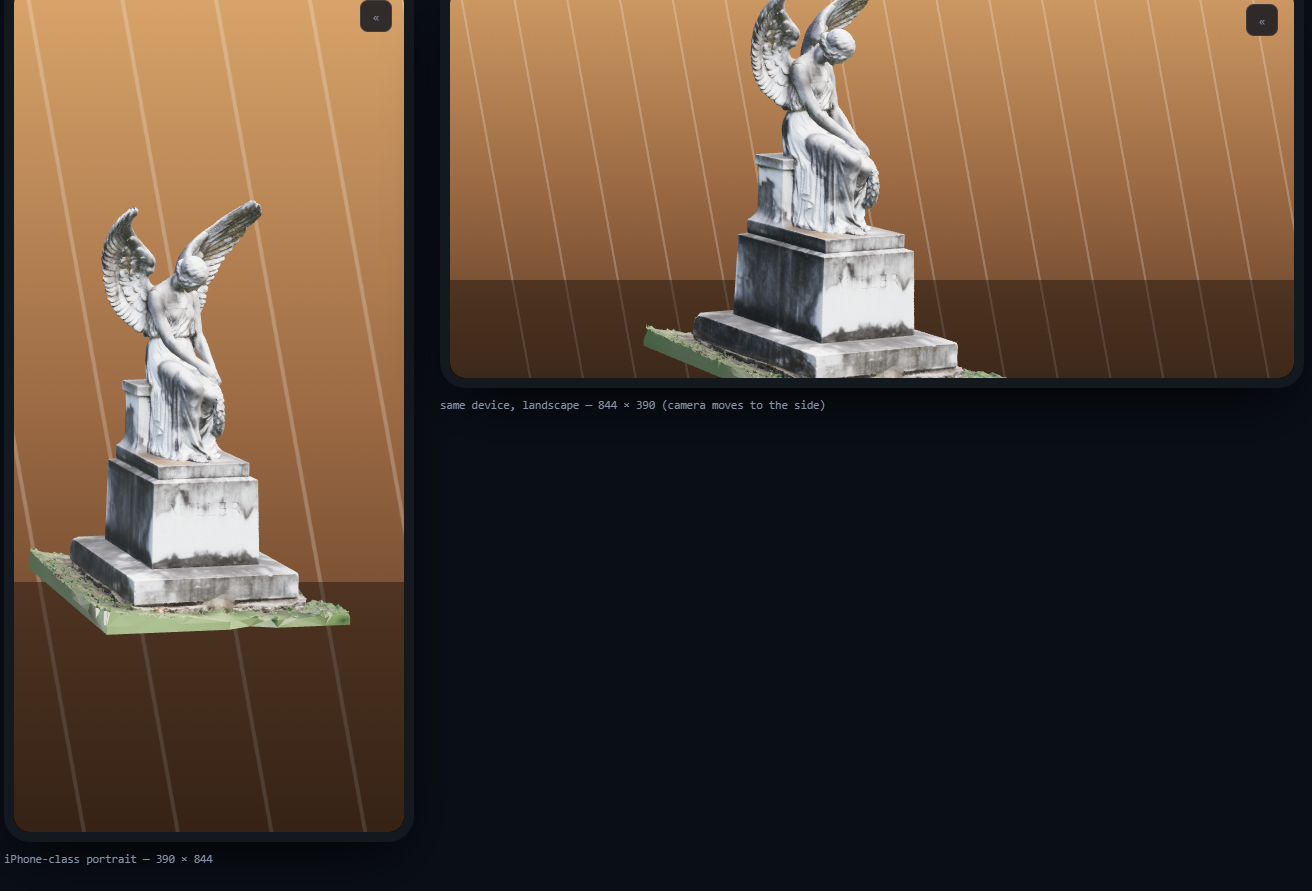
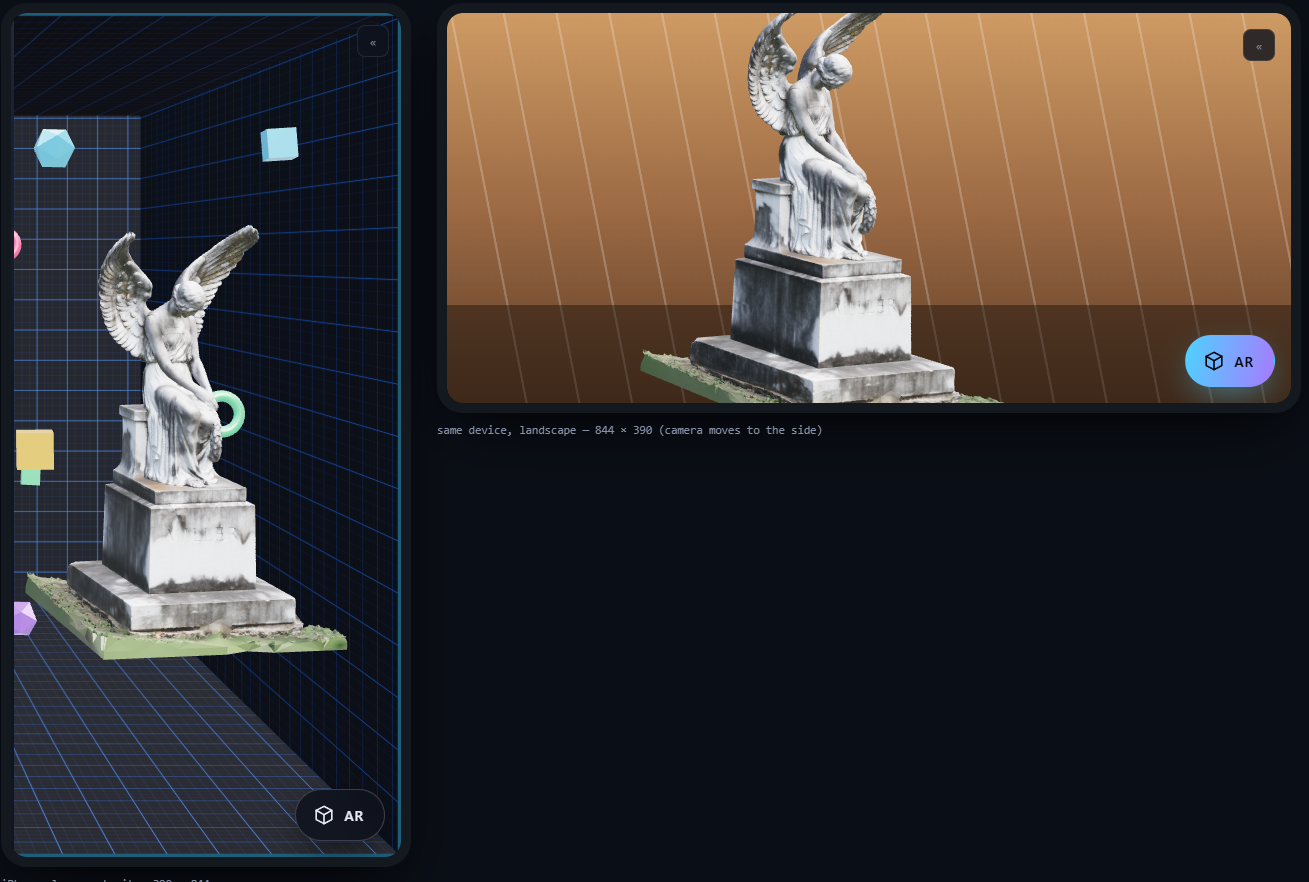
Surface the AR toggle on the stage, not just in the settings panel
AR passthrough is the headline mobile feature, so requiring three taps into a
settings panel to reach it was wrong — especially since it is the one control
you want mid-gesture while holding a phone.

Adds a floating AR button on the stage itself, shown only on phones and
tablets. Bottom-right: the reachable corner for a thumb, and the only one not
already occupied by the HUD (top-left), the camera preview (bottom-left) or the
panel button (top-right). 52px hit target, safe-area padding so it clears a home
bar, and a lit accent state when active.

The panel checkbox stays, since it carries the AR status line. Both controls now
route through a single UI._requestAr(), so they cannot drift apart or race: both
are locked while the camera opens, repeat taps during that window are dropped
rather than queued, and afterwards both resync from config — which reflects what
actually happened rather than what was asked for.

The toast bottom offset is raised on narrow screens; it previously would have
overlapped the new button.

Verified in phone-sized frames, portrait and landscape: placement inside the
viewport, touch target above the 44px minimum, tap-to-enable, tap-to-disable,
double-tap suppression, and bidirectional sync with the panel checkbox. Desktop
unaffected — button and panel section both hidden. 65 assertions still pass.

diff --git a/css/style.css b/css/style.css
@@ -531,6 +531,78 @@ input[type=range]::-moz-range-thumb {
   transition: width .18s ease;
 }
 
+/* ---------------- AR quick toggle ---------------- */
+
+/* Bottom-right: the reachable corner for a thumb, and the only one not already
+   taken (HUD top-left, preview bottom-left, panel button top-right).
+   z-index sits above the HUD but below the panel, so the full-screen mobile
+   panel covers it when open. */
+.ar-fab {
+  position: fixed;
+  right: calc(16px + env(safe-area-inset-right));
+  bottom: calc(16px + env(safe-area-inset-bottom));
+  z-index: 25;
+
+  display: flex;
+  align-items: center;
+  gap: 9px;
+  padding: 13px 20px 13px 17px;
+  min-height: 52px;
+
+  border: 1px solid var(--stroke-hi);
+  border-radius: 999px;
+  background: rgba(14, 18, 28, 0.86);
+  backdrop-filter: blur(14px);
+  color: var(--text);
+  font-size: 14px;
+  font-weight: 600;
+  letter-spacing: .06em;
+  cursor: pointer;
+  user-select: none;
+  -webkit-tap-highlight-color: transparent;
+  box-shadow: 0 12px 32px -10px rgba(0, 0, 0, .8);
+  transition: background .2s, border-color .2s, color .2s, transform .12s, box-shadow .2s;
+}
+
+.ar-fab:active { transform: scale(.96); }
+
+.ar-fab-icon {
+  display: grid;
+  place-items: center;
+  width: 22px;
+  height: 22px;
+}
+
+.ar-fab-icon svg { width: 100%; height: 100%; }
+
+/* Active: unmistakably "on", since the whole scene changing is the only other
+   signal and a user who just enabled it needs to know the tap registered. */
+.ar-fab.active {
+  background: linear-gradient(100deg, var(--accent), var(--accent-2));
+  border-color: transparent;
+  color: #05070c;
+  box-shadow: 0 12px 34px -8px rgba(79, 209, 255, .55);
+}
+
+/* Busy: opening a camera takes a moment and can fail, so the control is locked
+   rather than letting a second tap race the first. */
+.ar-fab.busy {
+  pointer-events: none;
+  opacity: .65;
+}
+
+.ar-fab.busy .ar-fab-icon { animation: ar-pulse 1s ease-in-out infinite; }
+
+@keyframes ar-pulse {
+  0%, 100% { opacity: .35; transform: scale(.9); }
+  50%      { opacity: 1;   transform: scale(1.05); }
+}
+
+@media (hover: hover) {
+  .ar-fab:hover { border-color: var(--accent); }
+  .ar-fab.active:hover { filter: brightness(1.08); }
+}
+
 /* ---------------- toast ---------------- */
 
 .toast {
@@ -640,7 +712,13 @@ input[type=range]::-moz-range-thumb {
   .preview.collapsed { width: 104px; }
   .preview-bar { font-size: 9px; padding: 4px 4px 4px 7px; }
 
-  .toast { bottom: calc(20px + env(safe-area-inset-bottom)); max-width: 88vw; white-space: normal; text-align: center; }
+  /* Lifted above the AR button, which shares the bottom edge. */
+  .toast {
+    bottom: calc(84px + env(safe-area-inset-bottom));
+    max-width: 88vw;
+    white-space: normal;
+    text-align: center;
+  }
 
   .splash { padding: 0; }
   .splash-card {

diff --git a/js/ui.js b/js/ui.js
@@ -68,6 +68,8 @@ export class UI {
     this.reopen = $('panel-reopen');
     this.preview = $('preview');
     this.hud = $('hud');
+    this.arFab = $('ar-fab');
+    this._arBusy = false;
     this.toastEl = $('toast');
     this.toastTimer = 0;
 
@@ -92,9 +94,32 @@ export class UI {
     if (this.isCompact()) this.togglePanel(false);
   }
 
-  /** Show the AR passthrough control. Desktops have no rear camera. */
+  /**
+   * Toggle AR passthrough on behalf of either control.
+   *
+   * Opening a camera is slow and can fail, so both controls are locked for the
+   * duration and then resynced from config — which reflects what actually
+   * happened, not what was asked for.
+   */
+  async _requestAr(wanted) {
+    if (this._arBusy) return;
+    this._arBusy = true;
+    $('c-ar').disabled = true;
+    this.arFab.classList.add('busy');
+    try {
+      await this.h.onToggleAr(wanted);
+    } finally {
+      this._arBusy = false;
+      $('c-ar').disabled = false;
+      this.arFab.classList.remove('busy');
+      this.syncFromConfig(['arMode']);
+    }
+  }
+
+  /** Show the AR passthrough controls. Desktops have no rear camera. */
   enableArControl(show) {
     $('group-ar').classList.toggle('hidden', !show);
+    this.arFab.classList.toggle('hidden', !show);
   }
 
   /** Persistent line under the AR toggle; pass null to clear. */
@@ -165,6 +190,8 @@ export class UI {
         el.disabled = ar;
         el.closest('.check').style.opacity = ar ? 0.4 : 1;
       }
+      this.arFab?.classList.toggle('active', ar);
+      this.arFab?.setAttribute('aria-pressed', String(ar));
     }
 
     // Both camera-offset sliders are meaningless while "auto" is on: the
@@ -200,18 +227,10 @@ export class UI {
       fileInput.value = '';
     };
 
-    const ar = $('c-ar');
-    ar.addEventListener('change', async () => {
-      const wanted = ar.checked;
-      ar.disabled = true;
-      try {
-        await this.h.onToggleAr(wanted);
-      } finally {
-        ar.disabled = false;
-        // Whatever happened, the checkbox must reflect reality, not intent.
-        this.syncFromConfig(['arMode']);
-      }
-    });
+    // Two controls, one path: the on-stage button and the panel checkbox both
+    // route through _requestAr so they can never race or drift out of step.
+    $('c-ar').addEventListener('change', (e) => this._requestAr(e.target.checked));
+    this.arFab.addEventListener('click', () => this._requestAr(!config.arMode));
 
     $('btn-default').onclick = () => this.h.onLoadDefault();
     $('btn-recenter').onclick = () => this.h.onRecenter();

diff --git a/index.html b/index.html
@@ -257,6 +257,22 @@
 
 <button id="panel-reopen" class="panel-reopen hidden" title="Show panel (H)">&laquo;</button>
 
+<!-- ============ AR QUICK TOGGLE (mobile) ============ -->
+<!-- AR passthrough is the headline mobile feature, so it gets a thumb-reachable
+     control on the stage itself rather than living only inside the panel. -->
+<button id="ar-fab" class="ar-fab hidden" type="button" aria-pressed="false"
+        title="Transparent AR mode — show the model over your rear camera">
+  <span class="ar-fab-icon" aria-hidden="true">
+    <svg viewBox="0 0 24 24" fill="none" stroke="currentColor" stroke-width="1.8"
+         stroke-linecap="round" stroke-linejoin="round">
+      <path d="M12 2.6 20.5 7v10L12 21.4 3.5 17V7z" />
+      <path d="M3.5 7 12 11.6 20.5 7" />
+      <path d="M12 11.6v9.8" />
+    </svg>
+  </span>
+  <span class="ar-fab-label">AR</span>
+</button>
+
 <div id="toast" class="toast"></div>
 <div id="dropzone" class="dropzone"><div>Drop a <b>.glb</b> or <b>.gltf</b> to load it</div></div>
 

diff --git a/README.md b/README.md
@@ -158,14 +158,25 @@ there; the app ships the meta tags for a fullscreen standalone shell.
 
 ## AR passthrough mode
 
-**Phones and tablets only.** Toggle **Transparent AR mode** in the panel and the diorama
-disappears — no depth box, no window frame, no parallax props. The canvas clears to
+**Phones and tablets only.** Tap the **AR** button in the bottom-right of the screen and the
+diorama disappears — no depth box, no window frame, no parallax props. The canvas clears to
 transparent, your **rear camera** fills the background, and the model is left floating in
 your actual room, still driven by head tracking.
 
-<img src="docs/ar-mode.png" alt="AR passthrough in portrait and landscape on a phone" width="700" />
+<img src="docs/ar-mode.png" alt="The AR button in both states: off with the diorama, on with rear-camera passthrough" width="700" />
 
-The control only appears on non-desktop devices, and AR always starts **off** — it needs a
+*Left: AR off — the diorama, button in its resting state. Right: AR on — rear-camera
+passthrough, button lit.*
+
+The button lives on the stage rather than in the settings panel, because it is the one
+control you want mid-gesture while holding a phone. It sits in the bottom-right — the
+reachable corner for a thumb, and the only one not already occupied by the HUD, the camera
+preview or the panel button — with a 52 px hit target and safe-area padding so it clears a
+home bar. The same toggle also appears in the panel under **AR passthrough**, alongside its
+status line; the two stay in sync in both directions, and both are locked while the camera
+opens so a double-tap cannot race itself.
+
+The controls only appear on non-desktop devices, and AR always starts **off** — it needs a
 second camera and a fresh gesture, so restoring it automatically would be wrong.
 
 ### It needs two cameras at once
@@ -387,6 +398,8 @@ this is not optional.
 | `1` `2` `3` | Window / Hybrid / Turntable |
 | `Space` | freeze tracking (holds the current viewpoint) |
 
+On phones and tablets, the **AR** button sits on-screen in the bottom-right.
+
 ---
 
 ## Tests
@@ -466,7 +479,7 @@ first run (with fallback hosts) and are then browser-cached; the rest is local.
 | Blank page on GitHub Pages | Confirm `.nojekyll` is committed and Pages is serving `/ (root)` of `main`. |
 | AR mode says head tracking is paused | Your device runs one camera at a time (iOS). Turn AR off to resume tracking. |
 | AR mode picks a fisheye/ultra-wide lens | Multi-lens phone. Report the camera label — lens preference is in `js/passthrough.js`. |
-| No AR toggle | It is hidden on desktop; there is no rear camera to pass through. |
+| No AR button | It is hidden on desktop; there is no rear camera to pass through. |
 
 ---
 
